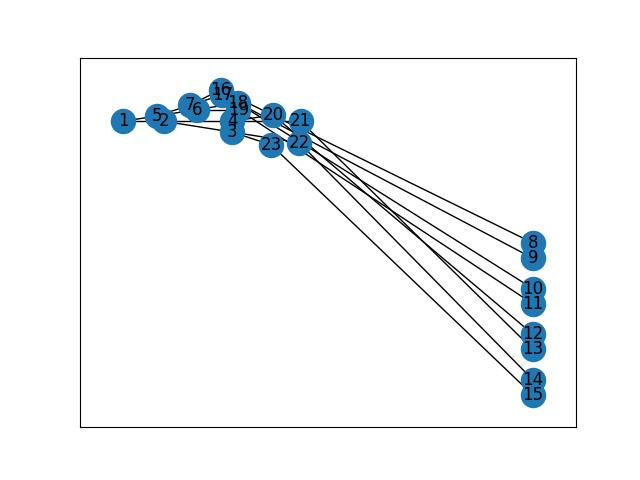
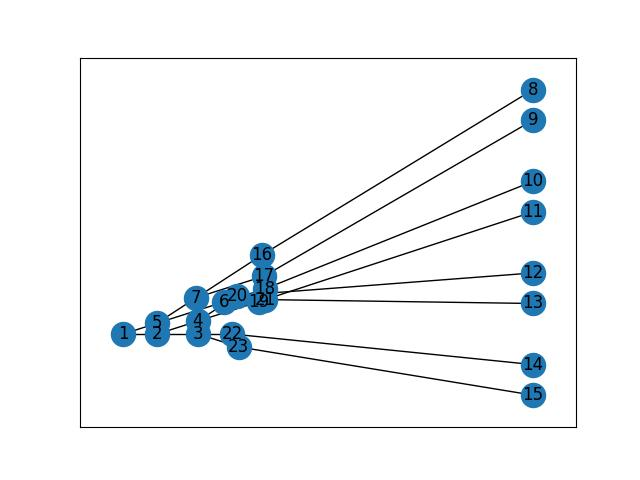
station track coordinate modify2

diff --git a/main.py b/main.py
@@ -60,7 +60,7 @@ class Tree:
         self.direction_list = []
         self.l = []
         self.l_list = [25, 30, 50]
-        self.station_track_coordinate_startpoint = -80
+        self.station_track_coordinate_startpoint = 80
         self.station_track_space = 5
         self.station_track_space_list = [10, 20, 10, 20, 10, 20, 10]
 
@@ -271,6 +271,7 @@ class Tree:
                 node.angle = 0
                 node.coordinate = (self.total_length - self.throat_length, 0)
             queue = [node]
+            print('L列表：' + str(self.l))
             for k in queue:
                 # print(k.value)
                 if k.value != 1:
@@ -296,7 +297,7 @@ class Tree:
                     print(str(k.value) + '号角度：' + str(k.angle))
                     print(str(k.value) + '号坐标：' + str(k.coordinate))
                     print(str(k.value) + '号长度：' + str(k.length))
-                print('L列表：' + str(self.l))
+
                 if k.left:
                     queue.append(k.left)
                 if k.right:
@@ -475,8 +476,6 @@ class Tree:
                 m = self.matrix_init()
                 # print(m)
                 self.excel_output(m, name)
-
-
 
         else:
             direction_list = copy(self.direction_list)
